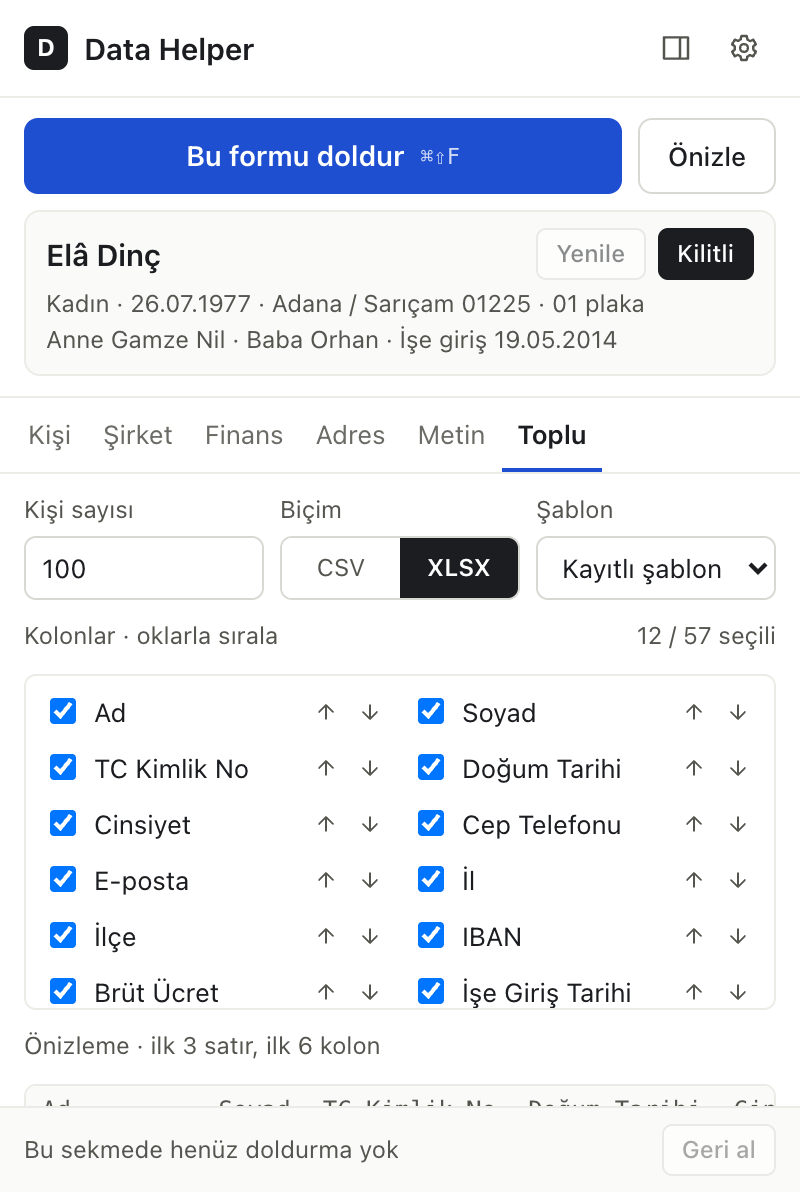
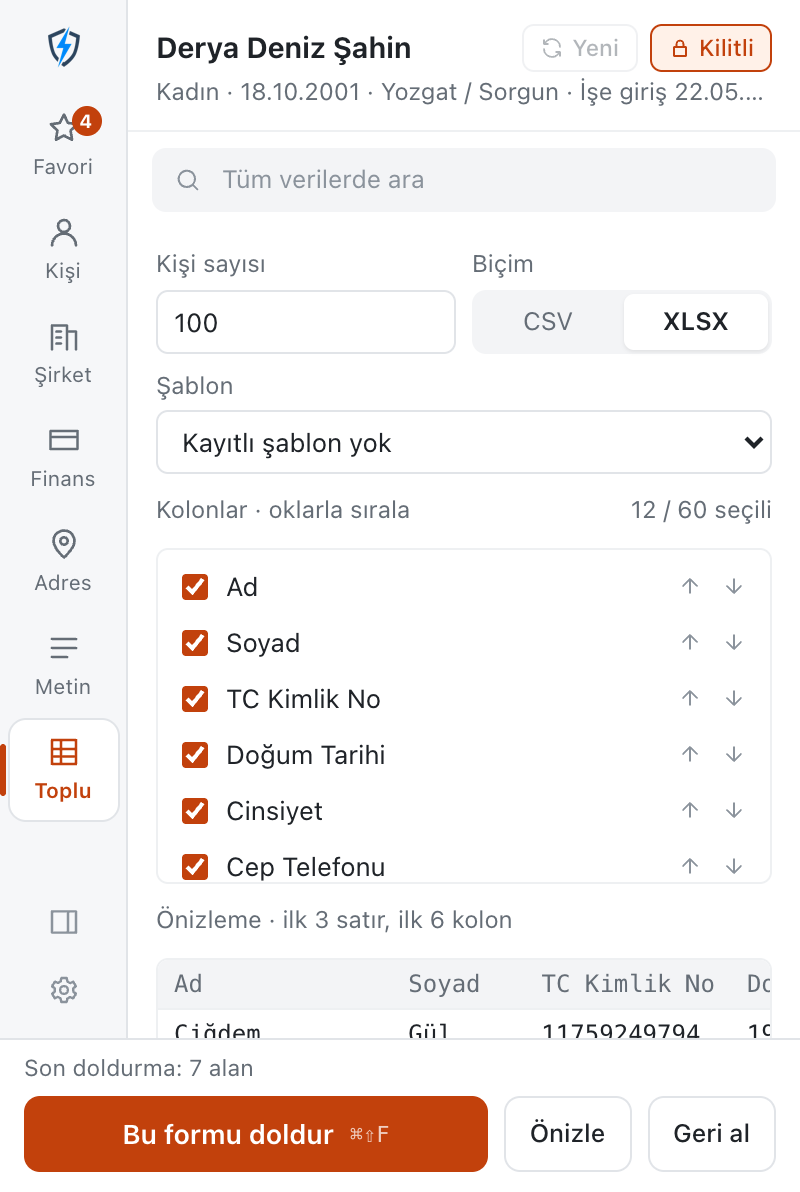
Yayın hazırlığı 2.0.0: yeni popup görselleri, gizlilik politikası güncel, Pages derlemesi site görselleriyle
- Site görselleri yan çubuklu yeni popup'tan yeniden alındı; alt metinler güncel
- PRIVACY.md 2.0'a göre yeniden yazıldı (TR + EN; saklanan veriler ve izinler tablo hâlinde)
- deploy.yml build:pages kullanıyor; eklenti derlemesi site/ klasörünü sildiği için sitede görseller eksik kalıyordu

Claude-Session: https://claude.ai/code/session_01JnvikGNvVWyr6tWSp3GsGy

diff --git a/index.html b/index.html
@@ -63,7 +63,7 @@
     </div>
     <picture>
       <source srcset="./site/img/popup-person-dark.png" media="(prefers-color-scheme: dark)">
-      <img class="shot hero-shot" src="./site/img/popup-person.png" width="400" height="600" alt="Data Helper popup: Fill this form button, a persona card with Refresh and Lock, and tabs for Person, Company, Finance, Address, Text and Bulk">
+      <img class="shot hero-shot" src="./site/img/popup-person.png" width="400" height="596" alt="Data Helper popup: groups in a left rail (Favorites, Person, Company, Finance, Address, Text, Bulk), the current person with New and Lock, a list of values with copy buttons, and Fill this form, Preview and Undo at the bottom">
     </picture>
   </div>
 </div>
@@ -151,8 +151,8 @@
   <div class="wrap">
     <h2 data-l="en">Data that passes validation.</h2>
     <h2 data-l="tr">Doğrulamadan geçen veriler.</h2>
-    <p class="intro" data-l="en">Every number follows its real format and check-digit rule, and the values of one person agree with each other. Over 60 data types in six tabs.</p>
-    <p class="intro" data-l="tr">Her numara gerçek biçimine ve sağlama kuralına uyar; bir kişinin değerleri birbiriyle tutarlıdır. Altı sekmede 60'tan fazla veri türü.</p>
+    <p class="intro" data-l="en">Every number follows its real format and check-digit rule, and the values of one person agree with each other. Over 60 data types in four groups, with search and favorites.</p>
+    <p class="intro" data-l="tr">Her numara gerçek biçimine ve sağlama kuralına uyar; bir kişinin değerleri birbiriyle tutarlıdır. Dört grupta 60'tan fazla veri türü; arama ve favorilerle.</p>
     <div class="table">
       <table>
         <thead><tr><th><span data-l="en">Field</span><span data-l="tr">Alan</span></th><th><span data-l="en">Format</span><span data-l="tr">Biçim</span></th><th><span data-l="en">Rule</span><span data-l="tr">Kural</span></th></tr></thead>
@@ -191,7 +191,7 @@
     </div>
     <picture>
       <source srcset="./site/img/popup-bulk-dark.png" media="(prefers-color-scheme: dark)">
-      <img class="shot narrow" src="./site/img/popup-bulk.png" width="400" height="600" alt="Bulk tab: number of people, CSV or XLSX, template and a column list with checkboxes and arrows">
+      <img class="shot narrow" src="./site/img/popup-bulk.png" width="400" height="596" alt="Bulk tab: number of people, CSV or XLSX, template and a column list with checkboxes and arrows">
     </picture>
   </div>
 </section>

diff --git a/PRIVACY.md b/PRIVACY.md
@@ -1,66 +1,93 @@
-# Gizlilik Politikası - Data Helper
+# Gizlilik Politikası · Data Helper
 
-**Son güncelleme:** 21 Nisan 2026
+**Son güncelleme:** 4 Kasım 2026 · sürüm 2.0.0
 
-## Genel Bakış
+*English version below.*
 
-Data Helper, yazılım test süreçlerinde kullanılmak üzere sahte (fake) veri üreten bir Chrome uzantısıdır. Kullanıcı gizliliğini en üst düzeyde önemsiyoruz.
+## Kısaca
 
-## Veri Toplama
+Data Helper hiçbir kişisel veri toplamaz, hiçbir sunucuya veri göndermez, analitik ya da izleme kullanmaz. Ürettiği her değer sahte test verisidir. Her şey tarayıcınızda çalışır.
 
-Data Helper uzantısı **hiçbir kişisel veri toplamaz, saklamaz veya üçüncü taraflarla paylaşmaz.**
+## Saklanan bilgiler
 
-Uzantımız:
-- ❌ Kişisel bilgilerinizi toplamaz
-- ❌ Tarama geçmişinizi izlemez
-- ❌ Hiçbir sunucuya veri göndermez
-- ❌ Analitik veya izleme araçları kullanmaz
-- ❌ Üçüncü taraf servislerle iletişim kurmaz
-- ❌ Sayfalarınıza kalıcı content-script enjekte etmez
+Data Helper yalnız şunları, yalnız sizin tarayıcınızda saklar:
 
-## Yerel Depolama
+| Ne | Nerede | Ne zaman silinir |
+|----|--------|------------------|
+| Geçerli kişi ve şirket (sahte), kilit durumu | `chrome.storage.local` | Eklentiyi kaldırınca ya da "Yeni" deyince |
+| Favoriler ve ayarlar (tema, gizli siteler) | `chrome.storage.sync`; kota dolarsa `chrome.storage.local` | Eklentiyi kaldırınca |
+| Toplu dosya şablonları | `chrome.storage.local` | Eklentiyi kaldırınca |
+| Son kopyalananlar ve son doldurma özeti (geri alma için) | `chrome.storage.session` | Tarayıcı kapanınca |
 
-Uzantı yalnızca aşağıdaki bilgileri **yerel olarak (cihazınızda)** saklar:
+`chrome.storage.sync` kullanıldığında favori ve ayarlarınız, aynı Google hesabıyla oturum açtığınız Chrome'lar arasında Google tarafından eşitlenir. Data Helper'ın kendi sunucusu yoktur.
 
-- Favori olarak işaretlediğiniz veri tipleri ve sıralaması
-- Kullanıcı ayarları (tema, tercih edilen banka vb.)
-- Son üretilen değerlerin oturum geçmişi (`chrome.storage.session`; tarayıcıyı kapatınca silinir)
-- Aktif "Persona" (oturum boyunca kalıcı; tarayıcıyı kapatınca silinir)
+Data Helper doldurduğu sayfalardaki içeriği okumaz, kaydetmez, göndermez. Formu doldururken yalnız alan etiketlerine bakarak hangi alana ne yazılacağına karar verir; bu bilgi sayfadan çıkmaz.
 
-Favori ve ayarlar öncelikli olarak `chrome.storage.sync` ile (aynı Google hesabıyla giriş yaptığınız diğer Chrome cihazlarıyla senkronize olur), kota dolarsa `chrome.storage.local`'a düşerek saklanır. Hiçbiri Data Helper'ın kendi sunucularına gönderilmez; senkronizasyon tamamen Google altyapısı üzerinden gerçekleşir.
+## İzinler
 
-## Kullanılan İzinler
+| İzin | Neden |
+|------|-------|
+| `activeTab` | Siz istediğinizde (düğme, kısayol, sağ tık) yalnız kullandığınız sekmedeki formu doldurmak |
+| `scripting` | Doldurma motorunu o sekmeye o an, tek seferlik yüklemek. Uzak kod çalıştırılmaz; motor eklenti paketinin içindedir |
+| `storage` | Yukarıdaki tablodaki bilgileri saklamak |
+| `contextMenus` | Sağ tık menüsüne "Data Helper" girdisini eklemek |
+| `sidePanel` | Data Helper'ı yan panelde açabilmek |
+| `<all_urls>` (isteğe bağlı) | Yalnız yan panelden doldurmak istediğinizde, o site için ayrıca sorulur. Vermezseniz eklenti yine çalışır |
 
-| İzin | Kullanım Amacı |
-|------|----------------|
-| `storage` | Favori, ayar ve oturum geçmişini yerel olarak saklamak için |
-| `contextMenus` | Sağ-tık menüsüne "Data Helper" girdisini eklemek için |
-| `activeTab` | Sağ-tık menüsü tıklandığında, yalnızca o sekmenin aktif input'una veri yazmak için — kullanıcı eylemiyle tetiklenir ve başka sekmelerdeki içeriğe erişim sağlamaz |
-| `scripting` | Sağ-tık tetiklendiğinde ilgili sekmeye tek seferlik, üretilen değeri yazan ince bir fonksiyon enjekte etmek için |
+Data Helper hiçbir sayfaya arka planda kalıcı betik yüklemez.
 
-Önceki sürümlerde kullanılan kalıcı `<all_urls>` content-script kaldırıldı. Artık hiçbir sayfaya uzantı arka planda yüklenmiyor — yalnızca sağ-tık + menü seçimi ile, o anki sekmeye, tek seferlik bir doldurma fonksiyonu enjekte ediliyor.
+## Üretilen veriler
 
-## Üretilen Veriler Hakkında
-
-Uzantının ürettiği tüm veriler (TCKN, IBAN, telefon numarası, kredi kartı numarası vb.) **tamamen rastgele ve sahte**dir. Bu veriler:
-- Gerçek kişilere veya hesaplara ait değildir
-- Matematiksel algoritmalara göre geçerli formatta (Luhn, mod97 vb.) üretilir
-- Yalnızca test amaçlı kullanılmalıdır
-- Gerçek işlemlerde (bankacılık, resmi başvuru vb.) kullanılmamalıdır
-
-## Çocukların Gizliliği
-
-Bu uzantı çocuklara yönelik değildir ve 13 yaşın altındaki çocuklardan bilerek veri toplamaz.
-
-## Değişiklikler
-
-Bu gizlilik politikası zaman zaman güncellenebilir. Önemli değişiklikler olması durumunda CHANGELOG / sürüm notları üzerinden bilgilendirme yapılacaktır.
+TCKN, VKN, IBAN, telefon, kart numarası gibi tüm değerler rastgele ve sahtedir; gerçek kişilere ya da hesaplara ait değildir. Biçim ve sağlama kurallarına uyarlar ama yalnız test için kullanılmalıdır.
 
 ## İletişim
 
-Gizlilik politikası hakkında sorularınız için GitHub üzerinden issue açabilirsiniz:
-https://github.com/osmnnl/TestDataHelper/issues
+Sorular için: https://github.com/osmnnl/TestDataHelper/issues
+
+Data Helper açık kaynaklıdır: https://github.com/osmnnl/TestDataHelper
 
 ---
 
-*Bu uzantı açık kaynaklıdır ve kaynak kodu GitHub'da incelenebilir.*
+# Privacy Policy · Data Helper
+
+**Last updated:** 4 November 2026 · version 2.0.0
+
+## In short
+
+Data Helper collects no personal data, sends nothing to any server and uses no analytics or tracking. Every value it produces is fake test data. Everything runs in your browser.
+
+## What is stored
+
+| What | Where | Removed when |
+|------|-------|--------------|
+| The current (fake) person and company, lock state | `chrome.storage.local` | You uninstall or press "New" |
+| Favorites and settings (theme, hidden sites) | `chrome.storage.sync`; `chrome.storage.local` if the quota is full | You uninstall |
+| Bulk export templates | `chrome.storage.local` | You uninstall |
+| Recently copied values and the last fill summary (for Undo) | `chrome.storage.session` | The browser closes |
+
+With `chrome.storage.sync`, Google syncs your favorites and settings between the Chrome browsers signed in to the same Google account. Data Helper has no server of its own.
+
+Data Helper does not read, store or send the content of the pages it fills. It looks at field labels to decide what goes into each field; that information never leaves the page.
+
+## Permissions
+
+| Permission | Why |
+|------------|-----|
+| `activeTab` | Fill the form in the tab you are using, only when you ask (button, shortcut, right-click) |
+| `scripting` | Load the fill engine into that tab once, at that moment. No remote code; the engine ships inside the extension |
+| `storage` | Keep the items in the table above |
+| `contextMenus` | Add the "Data Helper" right-click menu |
+| `sidePanel` | Open Data Helper in the side panel |
+| `<all_urls>` (optional) | Asked separately, per site, only when you fill from the side panel. The extension works without it |
+
+Data Helper never runs persistent scripts in the background of any page.
+
+## Generated data
+
+All values (TCKN, VKN, IBAN, phone, card numbers and so on) are random and fake and belong to no real person or account. They follow format and checksum rules but are for testing only.
+
+## Contact
+
+Questions: https://github.com/osmnnl/TestDataHelper/issues
+
+Data Helper is open source: https://github.com/osmnnl/TestDataHelper
